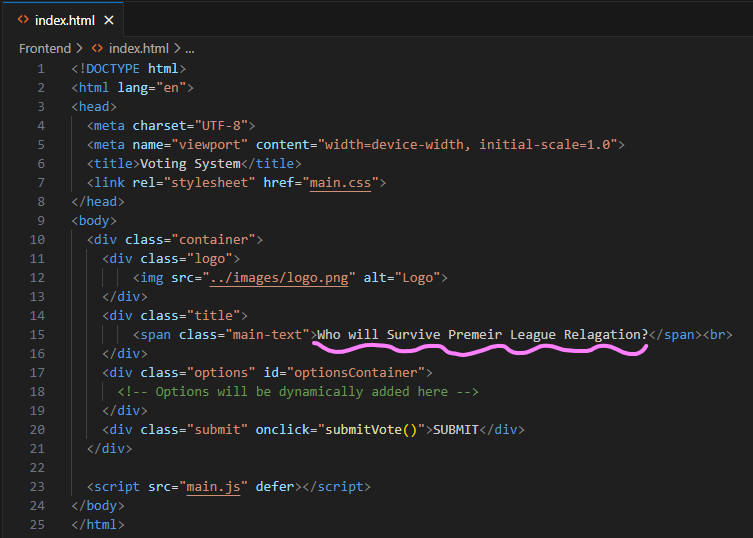
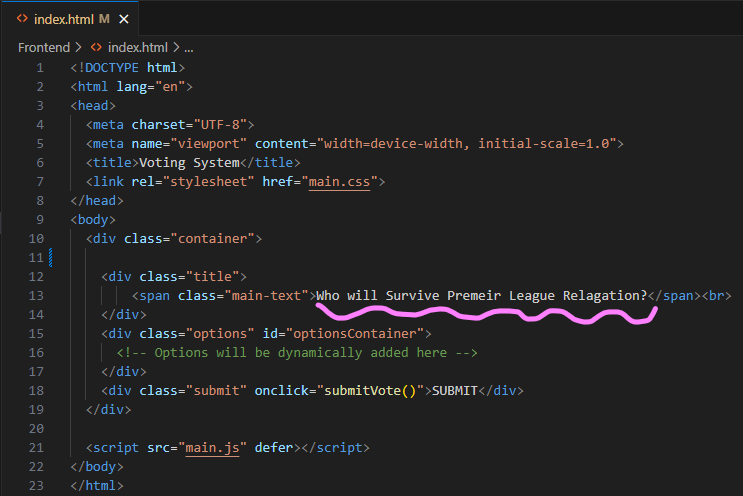
Updates images and cleans code

Changed region(s): [[0.0, 0.0, 0.9906, 0.998], [0.0929, 0.877, 0.4953, 0.998], [0.4953, 0.4839, 0.5882, 0.5444]]

diff --git a/Frontend/index.html b/Frontend/index.html
@@ -8,9 +8,7 @@
 </head>
 <body>
   <div class="container">
-    <div class="logo">
-        <img src="../images/logo.png" alt="Logo">
-    </div>
+
     <div class="title">
         <span class="main-text">Who will Survive Premeir League Relagation?</span><br>
     </div>

diff --git a/Frontend/results.html b/Frontend/results.html
@@ -10,9 +10,7 @@
 <body>
   
   <div class="container">
-    <div class="logo">
-      <img src="../images/logo.png" alt="Logo">
-    </div>
+    
 
     <div class="title">
       <span class="main-text">Thank you for your response</span><br>
